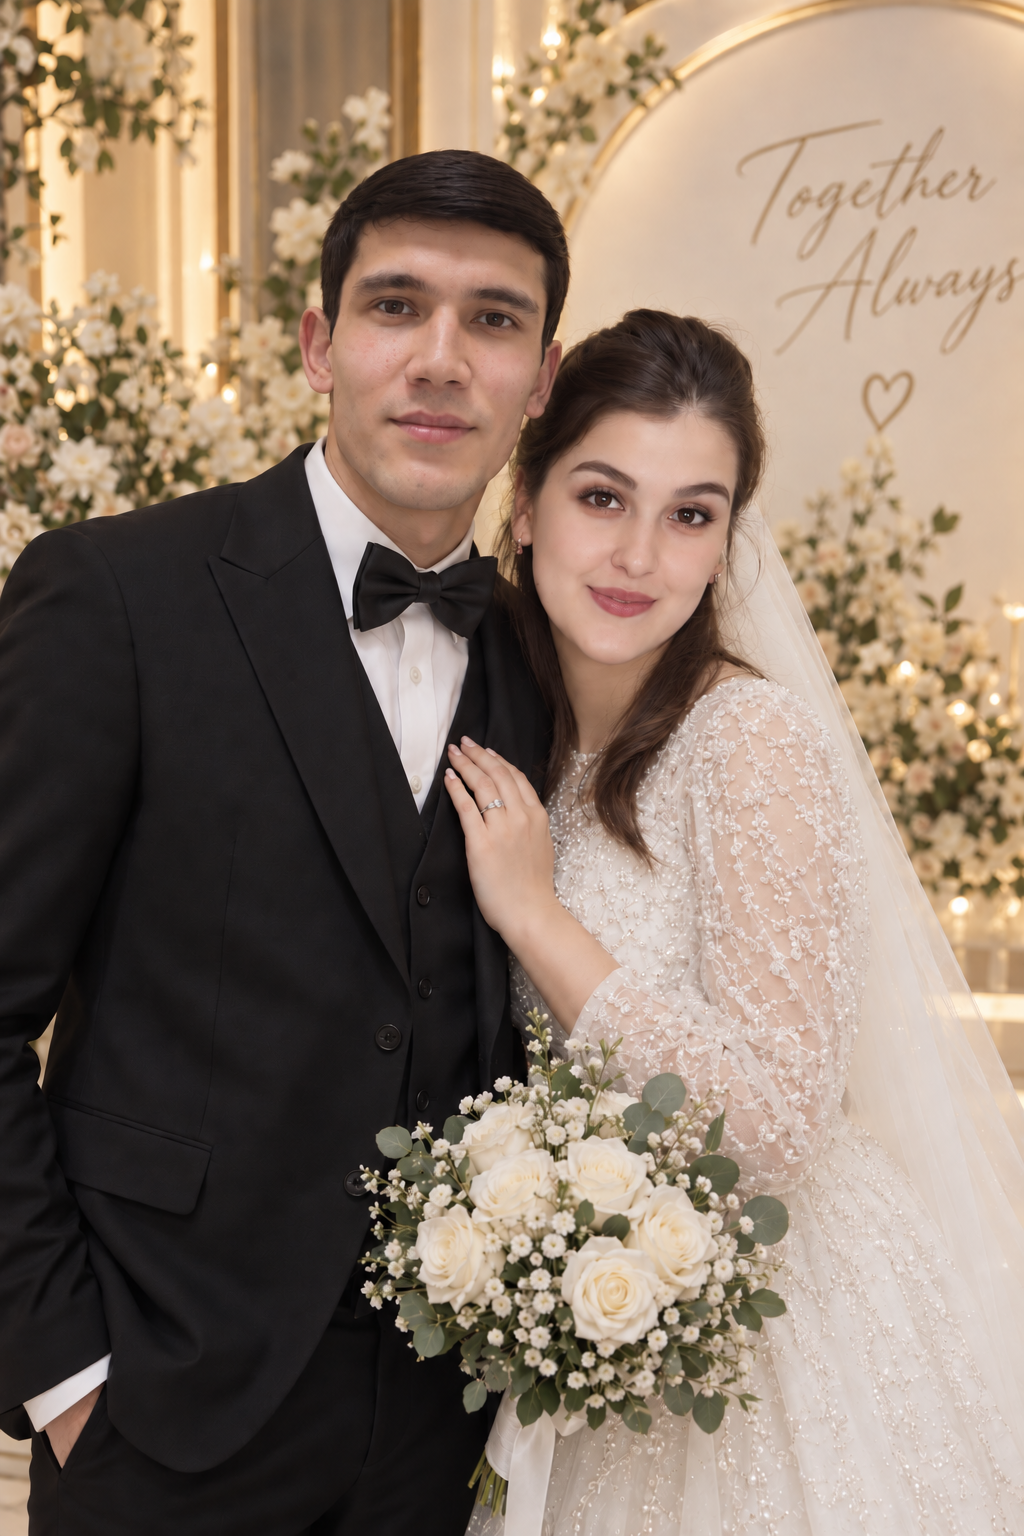
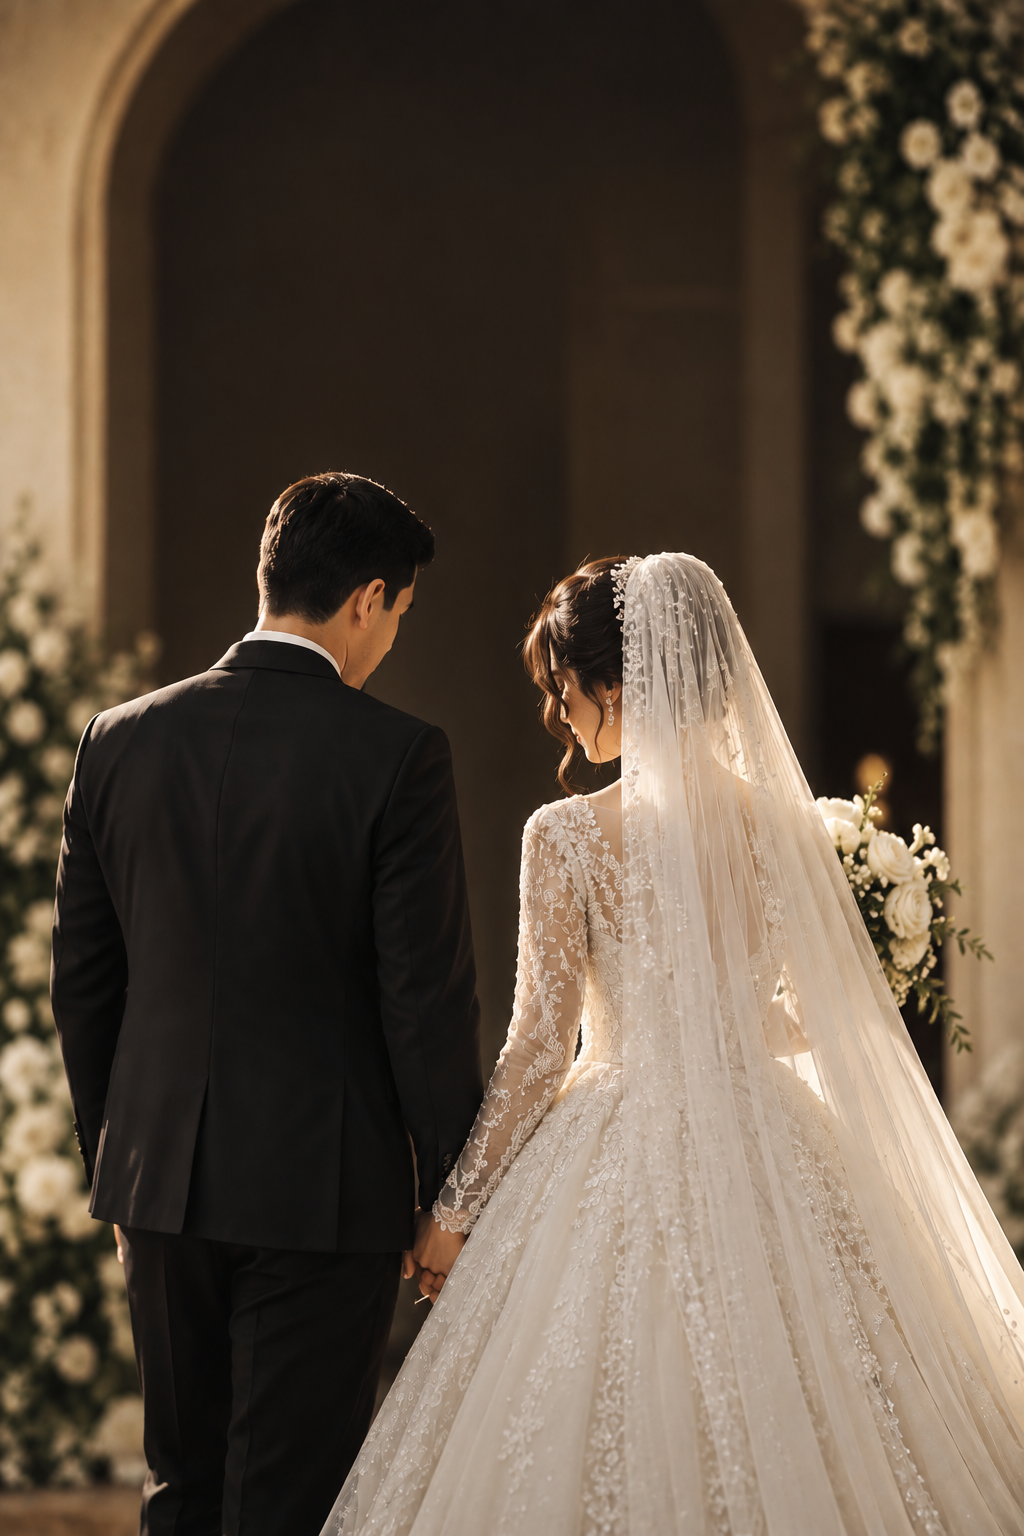
Update wedding invitation design

diff --git a/index.html b/index.html
@@ -12,12 +12,12 @@
 .welcome-page {
     position: relative;
     min-height: 100vh;
-    background:
-        linear-gradient(
-            rgba(15, 15, 15, 0.94),
-            rgba(15, 15, 15, 0.97)
-        ),
-        url("images/couple.jpg") center / cover no-repeat;
+   background:
+    linear-gradient(
+        rgba(15, 15, 15, 0.45),
+        rgba(15, 15, 15, 0.58)
+    ),
+    url("images/image2.jpg") center / cover no-repeat;
 
     display: flex;
     justify-content: center;
@@ -110,17 +110,17 @@
 }
 
         /* Juftlik rasmi */
-      .background {
+  .background {
     position: absolute;
     top: 0;
     left: 0;
     width: 100%;
-    height: 100vh;
+    height: calc(100vh + 180px);
 
     background:
         linear-gradient(
-            rgba(0, 0, 0, 0.65),
-            rgba(0, 0, 0, 0.88)
+            rgba(0, 0, 0, 0.52),
+            rgba(0, 0, 0, 0.76)
         ),
         url("images/couple.jpg") center 45% / cover no-repeat;
 
@@ -365,12 +365,12 @@
 .page-two {
     position: relative;
     min-height: 100vh;
-    background:
-        linear-gradient(
-            rgba(15, 15, 15, 0.92),
-            rgba(15, 15, 15, 0.96)
-        ),
-        url("images/couple.jpg") center / cover no-repeat;
+   background:
+    linear-gradient(
+        rgba(15, 15, 15, 0.45),
+        rgba(15, 15, 15, 0.58)
+    ),
+    url("images/image1.jpg") center / cover no-repeat;
 
     display: flex;
     justify-content: center;
@@ -1365,6 +1365,11 @@
 .messages-page {
     border-top: 8px solid #b8ad9d;
 }
+/* 6-SAHIFA — VAQTINCHA YASHIRILDI */
+.gallery-page {
+    display: none !important;
+}
+
     </style>
 </head>
 
